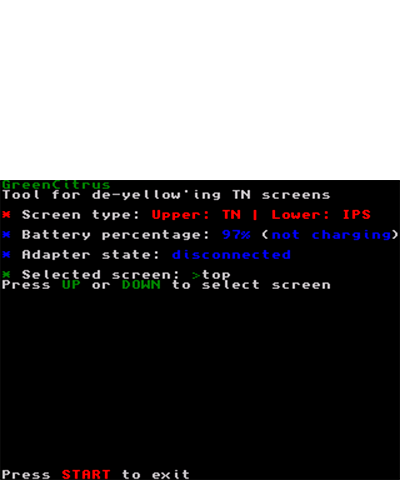
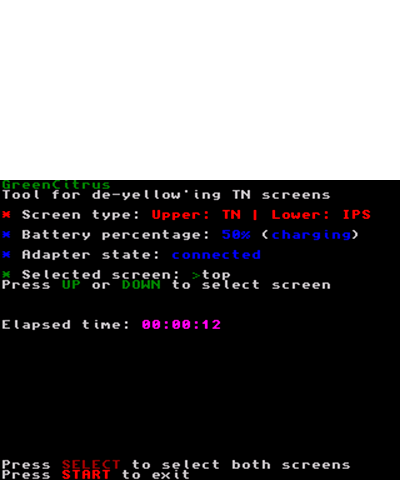
0.2.3 Add stopwatch

diff --git a/source/main.c b/source/main.c
@@ -2,6 +2,7 @@
 #include <citro3d.h>
 
 #include <stdio.h>
+#include <time.h>
 
 #define UPPER_SCREEN_UNKNOWN "Upper: Unknown"
 #define LOWER_SCREEN_UNKNOWN " | Lower: Unknown"
@@ -11,13 +12,14 @@
 #define LOWER_SCREEN_TN " | Lower: TN"
 
 // Checks if the device is a New 3DS model.
-[[nodiscard]] bool UtilsIsN3Ds(void) {
+[[nodiscard]]
+bool UtilsIsN3Ds(void) {
   bool is_new_3ds = false;
   return R_SUCCEEDED(APT_CheckNew3DS(&is_new_3ds)) && is_new_3ds;
 }
 
 // Determines the screen types and returns a descriptive string.
-char* SystemGetScreenType(void) {
+char *SystemGetScreenType(void) {
   static char screen_type[32] = {0};
 
   if (UtilsIsN3Ds()) {
@@ -29,30 +31,24 @@ char* SystemGetScreenType(void) {
       }
     }
 
-    const char* upper_screen;
-    const char* lower_screen;
+    const char *upper_screen;
+    const char *lower_screen;
 
     switch ((screens >> 4) & 0xF) {
-      case 0x01:
-        upper_screen = UPPER_SCREEN_IPS;
+      case 0x01:upper_screen = UPPER_SCREEN_IPS;
         break;
-      case 0x0C:
-        upper_screen = UPPER_SCREEN_TN;
+      case 0x0C:upper_screen = UPPER_SCREEN_TN;
         break;
-      default:
-        upper_screen = UPPER_SCREEN_UNKNOWN;
+      default:upper_screen = UPPER_SCREEN_UNKNOWN;
         break;
     }
 
     switch (screens & 0xF) {
-      case 0x01:
-        lower_screen = LOWER_SCREEN_IPS;
+      case 0x01:lower_screen = LOWER_SCREEN_IPS;
         break;
-      case 0x0C:
-        lower_screen = LOWER_SCREEN_TN;
+      case 0x0C:lower_screen = LOWER_SCREEN_TN;
         break;
-      default:
-        lower_screen = LOWER_SCREEN_UNKNOWN;
+      default:lower_screen = LOWER_SCREEN_UNKNOWN;
         break;
     }
 
@@ -68,18 +64,30 @@ u8 battery_percent = 0;
 u8 battery_status = 0;
 bool is_connected = false;
 bool is_bottom_screen = false;
+time_t start_time;  // Variable to store the start time
 
 // Prints static information on the console.
 void PrintStaticInfo(void) {
   printf("\x1b[1;0H\x1b[32mGreenCitrus\x1b[0m \nTool for de-yellow'ing TN screens"
-        "\x1b[4;0H\x1b[31;1m*\x1b[0m Screen type:\x1b[31;1m %s \x1b[0m"
-        "\x1b[6;0H\x1b[34;1m*\x1b[0m Battery percentage:"
-        "\x1b[8;0H\x1b[34;1m*\x1b[0m Adapter state:"
-        "\x1b[10;0H\x1b[32m*\x1b[0m Selected screen:"
-        "\x1b[11;0HPress \x1b[32mUP\x1b[0m or \x1b[32mDOWN\x1b[0m to select screen"
-        "\x1b[29;0HPress \x1b[31;mSELECT\x1b[0m to select both screens"
-        "\x1b[30;0HPress\x1b[31;1m START\x1b[0m to exit", SystemGetScreenType()
+         "\x1b[4;0H\x1b[31;1m*\x1b[0m Screen type:\x1b[31;1m %s \x1b[0m"
+         "\x1b[6;0H\x1b[34;1m*\x1b[0m Battery percentage:"
+         "\x1b[8;0H\x1b[34;1m*\x1b[0m Adapter state:"
+         "\x1b[10;0H\x1b[32m*\x1b[0m Selected screen:"
+         "\x1b[11;0HPress \x1b[32mUP\x1b[0m or \x1b[32mDOWN\x1b[0m to select screen"
+         "\x1b[15;0HElapsed time:"
+         "\x1b[29;0HPress \x1b[31;mSELECT\x1b[0m to select both screens"
+         "\x1b[30;0HPress\x1b[31;1m START\x1b[0m to exit", SystemGetScreenType()
   );
+}
+
+// Calculates and prints elapsed time.
+void PrintElapsedTime(void) {
+  time_t current_time = time(NULL);
+  int elapsed_seconds = difftime(current_time, start_time);
+  int hours = elapsed_seconds / 3600;
+  int minutes = (elapsed_seconds % 3600) / 60;
+  int seconds = elapsed_seconds % 60;
+  printf("\x1b[15;15H\x1b[35;1m%02d:%02d:%02d\x1b[0m", hours, minutes, seconds);
 }
 
 // Prints dynamic information on the console.
@@ -103,17 +111,20 @@ void PrintDynamicInfo(void) {
   }
 
   printf("\x1b[10;19H \x1b[32m>\x1b[0m%s", is_bottom_screen ? "bottom" : "top");
+
+  // Print elapsed time
+  PrintElapsedTime();
 }
 
 // Draws a frame with the specified color.
-void DrawFrame(C3D_RenderTarget* screen, u32 color) {
+void DrawFrame(C3D_RenderTarget *screen, u32 color) {
   C3D_FrameBegin(C3D_FRAME_SYNCDRAW);
   C2D_TargetClear(screen, color);
   C2D_SceneBegin(screen);
   C3D_FrameEnd(0);
 }
 
-void DrawFrameOnBoth(C3D_RenderTarget* top, C3D_RenderTarget* bot, u32 color) {
+void DrawFrameOnBoth(C3D_RenderTarget *top, C3D_RenderTarget *bot, u32 color) {
   C3D_FrameBegin(C3D_FRAME_SYNCDRAW);
   C2D_TargetClear(top, color);
   C2D_TargetClear(bot, color);
@@ -149,9 +160,9 @@ int main(void) {
   GSPLCD_SetBrightness(GSPLCD_SCREEN_BOTH, 5);
 
   // Create screens.
-  C3D_RenderTarget* top = C2D_CreateScreenTarget(GFX_TOP, GFX_LEFT);
-  C3D_RenderTarget* bot = C2D_CreateScreenTarget(GFX_BOTTOM, GFX_LEFT);
-  C3D_RenderTarget* screen = top;
+  C3D_RenderTarget *top = C2D_CreateScreenTarget(GFX_TOP, GFX_LEFT);
+  C3D_RenderTarget *bot = C2D_CreateScreenTarget(GFX_BOTTOM, GFX_LEFT);
+  C3D_RenderTarget *screen = top;
 
   // Create colors.
   u32 clr_white = C2D_Color32(0xFF, 0xFF, 0xFF, 0xFF);
@@ -161,6 +172,9 @@ int main(void) {
   consoleSelect(&console_bottom);
   PrintStaticInfo();
   bool isBothScreens = false;
+
+  // Initialize start time
+  start_time = time(NULL);
 
   // Main loop.
   while (aptMainLoop()) {
@@ -181,9 +195,9 @@ int main(void) {
       DrawFrame(screen, clr_white);
     }
     if (k_down & KEY_SELECT) {
-       isBothScreens = true;
-       DrawFrameOnBoth(top, bot, clr_black);
-       DrawFrameOnBoth(top, bot, clr_white);
+      isBothScreens = true;
+      DrawFrameOnBoth(top, bot, clr_black);
+      DrawFrameOnBoth(top, bot, clr_white);
     }
   }
 
